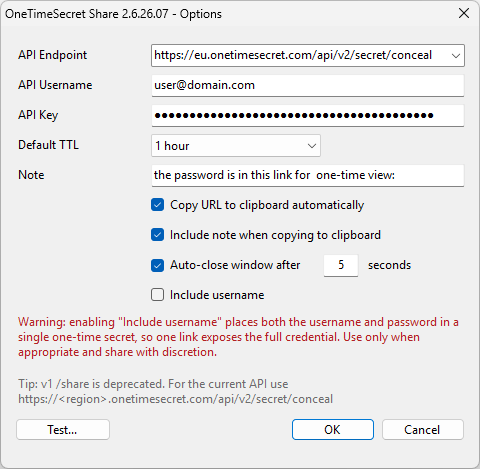
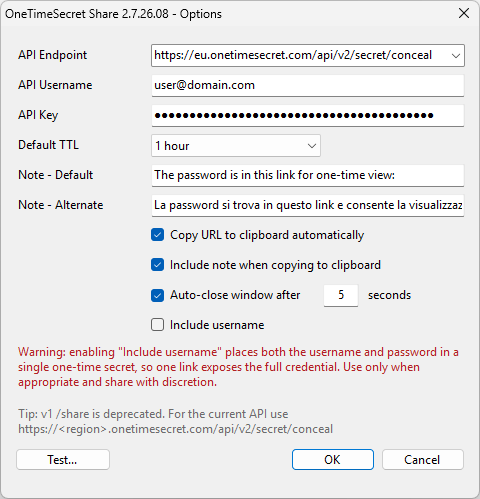
Update v2.7.26.08

diff --git a/README.md b/README.md
@@ -24,16 +24,15 @@ that reveals the secret once and then destroys it.
 - **Regional hosts** - pick EU, US, UK, CA or NZ from a drop-down, or type a
   custom / self-hosted URL
 - **Configurable TTL** - 5 minutes to 14 days
-- **Clipboard automation** - optionally copy the link automatically, with an
-  optional custom **note** prepended (e.g. *"the password is in this link for
-  one-time view:"*)
+- **Two clipboard notes** — a **default** note (prepended automatically) and an
+  **alternate** note for a different audience or language (e.g. one in English,
+  one in Italian), each on its own line above the link
 - **Include username** (optional) - put both `Username:` and `Password:` in the
   secret, with a clear on-screen warning
 - **Auto-close** - optionally close the result window after *N* seconds, with a
   live countdown on the Close button
-- **Result dialog** shows the link with a **Copy Link (without note)** button;
-  there is intentionally **no "open in browser"** button, because opening the
-  link would burn the one-time secret before the recipient sees it
+- **Result dialog** with three copy options — **Copy Link (without note)**,
+  **Copy Link (with alternative note)**, and **Close**. There is intentionally
 - **Credential protection** - the API key is stored **DPAPI-encrypted**
   (per Windows user) in `KeePass.config.xml`
 
@@ -84,9 +83,10 @@ Open **Tools → OneTimeSecret Share Options…**
 | **API Username** | Your Onetime Secret account username (email). |
 | **API Key** | Your Onetime Secret API key. Stored **DPAPI-encrypted** in `KeePass.config.xml`. |
 | **Default TTL** | How long the secret lives before it expires (5 min … 14 days). |
-| **Note** | Free text prepended above the link when copying (see below). |
+| **Note - Default** | Free text prepended above the link on automatic copy (see below). |
+| **Note - Alternate** | A second note for a different audience/language, used by the **Copy Link (with alternative note)** button. |
 | **Copy URL to clipboard automatically** | Copy the link as soon as it's created. |
-| **Include note when copying to clipboard** | Prepend the note (own line) above the link on copy. |
+| **Include note when copying to clipboard** | Prepend the **default** note (own line) above the link on auto-copy. |
 | **Auto-close window after _N_ seconds** | Automatically close the result dialog after the given number of seconds. |
 | **Include username** | Put both the username and password in the secret. |
 | **Test…** | Creates a throwaway secret to verify your endpoint and credentials. |
@@ -113,15 +113,23 @@ The share link is generated on the same regional host, e.g.
 3. The result dialog shows the one-time link (already on your clipboard if
    auto-copy is on). Paste it wherever you need to.
 
-With **Include note** enabled, a paste looks like:
+With **Include note** enabled, the automatic copy uses your **default** note, so
+a paste looks like:
 
 ```
-the password is in this link for one-time view:
+The password is in this link for one-time view:
 https://eu.onetimesecret.com/secret/lmb0qn6hq99ardptz7n7554kmcdui7owqiuak
 ```
 
-**Copy Link (without note)** copies just the bare URL, regardless of your note
-setting.
+- **Copy Link (without note)** — the bare URL only.
+- **Copy Link (with alternative note)** — the **alternate** note followed by the
+  URL (enabled only when an alternate note is set). Handy when working with
+  different audience or language than your default note.
+- **Close**.
+
+Typical two-language workflow: set the default note in one language (used on
+auto-copy) and the alternate note in another, then click **Copy Link (with
+alternative note)** when the recipient needs the other language.
 
 ---
 
@@ -177,11 +185,12 @@ regional host.
 
 | Version | Highlights |
 | --- | --- |
+| **2.7.26.08** | Two clipboard notes (**default** + **alternate**); **Copy Link (with alternative note)** button in the result dialog. |
 | **2.6.26.07** | Bold "(Link copied to clipboard.)"; **Auto-close after N seconds** with countdown. |
 | **2.5.26.07** | **Copy Link (without note)** button; version shown in window titles. |
 | **2.4.26.07** | API endpoint **regional drop-down**; **Include username** option + warning. |
 | **2.3.26.07** | Fixed v2 payload (wrapped `conceal` body); **Note** field + include-note-on-copy; hardened in-memory password handling (byte-level, zeroed). |
-| **1.0.0.0** | Initial release. |
+| **1.0.26.07** | Initial release. |
 
 ---
 
